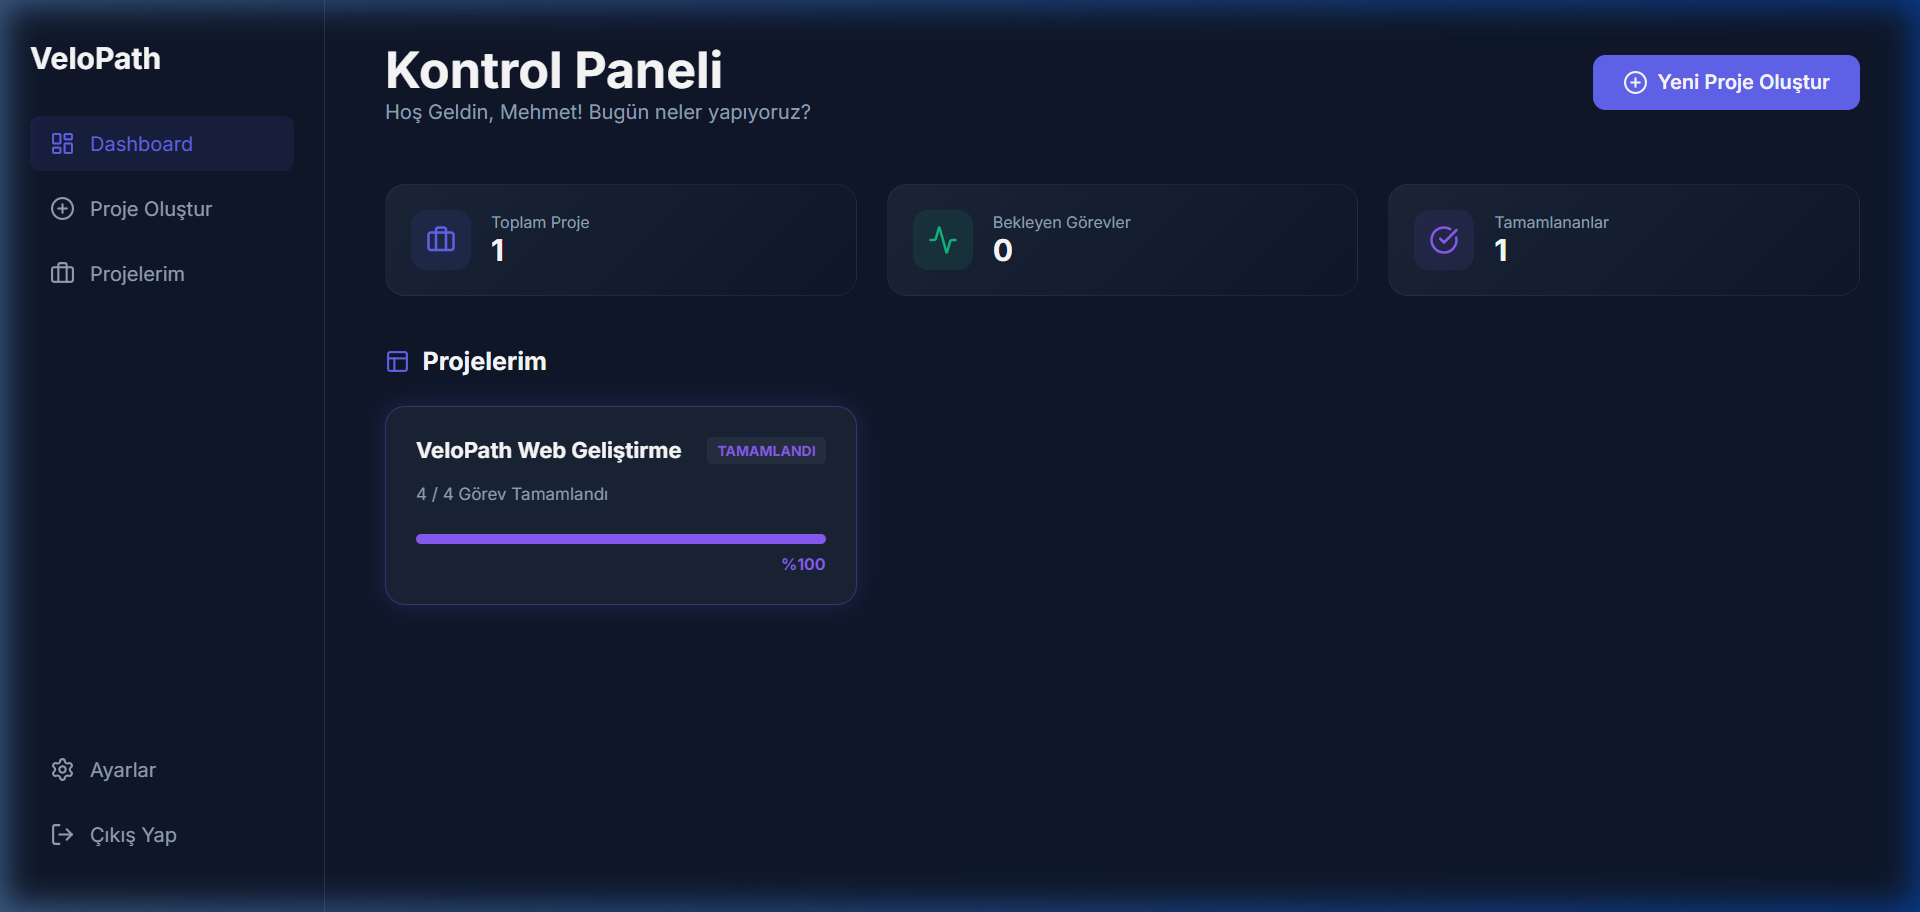
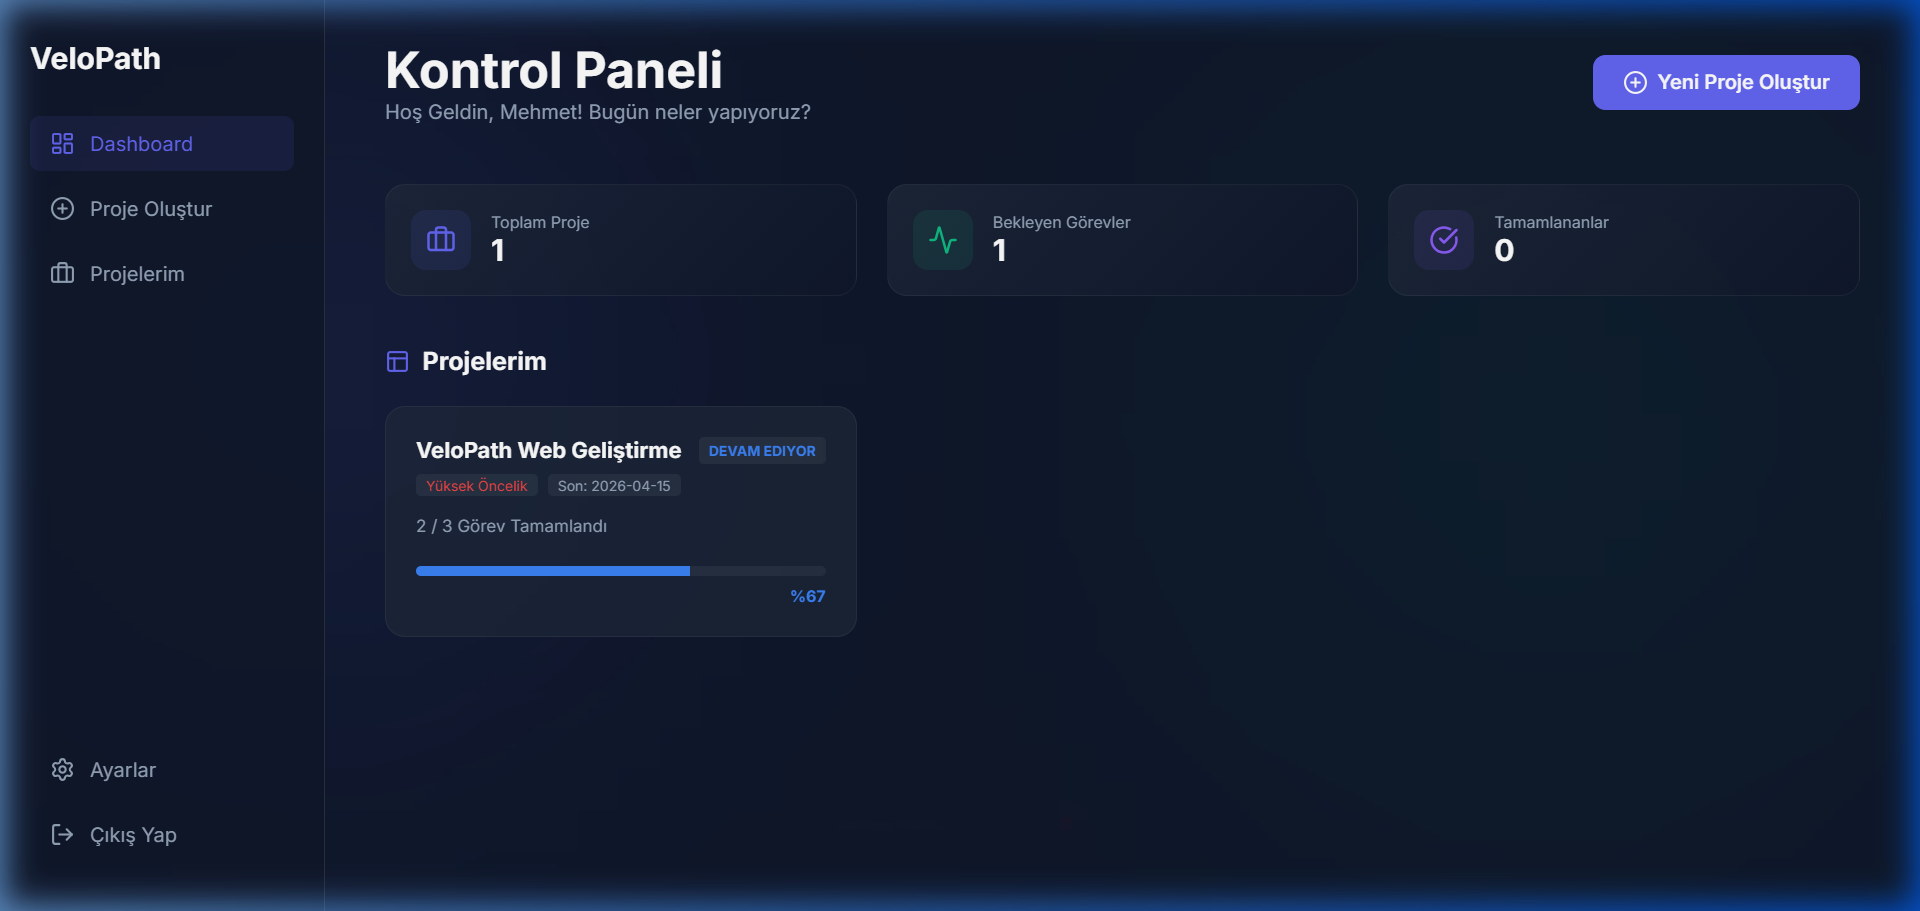
docs: README guncellendi (Next-Gen ozellikleri ve yeni Dashboard gorseli)

diff --git a/README.md b/README.md
@@ -6,16 +6,14 @@
 
 ## ✨ Özellikler
 
-VeloPath, modern bir kullanıcı deneyimi sunmak için tasarlanmıştır:
+VeloPath, en iyi modern kullanıcı deneyimini (UX) sunmak için "Next-Gen" (Linear / Vercel esintili) teknoloji tasarım trendleriyle inşa edilmiştir:
 
-- **📊 Dinamik Dashboard:** Tüm projelerinizin genel durumunu ve istatistiklerini (Toplam Proje, Bekleyen Görevler vb.) tek bir ekranda görün.
-- **🎨 Akıllı İlerleme Renkleri:** Proje ilerlemesine göre renk değiştiren progress bar'lar:
-  - 🟠 **%0 - %30:** Başlangıç
-  - 🔵 **%31 - %70:** İlerliyor
-  - 🟢 **%71 - %100:** Final Yakın / Tamamlandı (Glow Efekti)
-- **🌑 Premium Dark Mode:** Göz yormayan, "Glassmorphism" efektli modern ve profesyonel arayüz.
-- **📱 Responsive Navigasyon:** Sayfalar arası hızlı ve kolay geçiş sağlayan Sidebar menüsü.
-- **🛠 Görev Yönetimi:** Proje detaylarında anlık görev ekleme, silme ve tamamlama takibi.
+- 🚀 **Ultra-Modern Premium Arayüz:** Derin *Glassmorphism* (buzlu cam) paneller ve degrade (gradient) başlıklarla "State-of-the-Art" görünüm.
+- 🔮 **Aurora Ambient Arka Plan:** Uygulamaya derinlik ve "canlılık" hissi katan hareketli, otonom arka plan ışıkları.
+- 🎯 **Gelişmiş Proje Yönetimi:** Her projeye *Öncelik Seviyesi (Priority)*, *Teslim Tarihi (Deadline)* ve manuel *Durum (Status)* atayabilme imkanı.
+- 📊 **Dinamik Dashboard:** Projelerinizi ve istatistiklerinizi tek ekranda organize edebildiğiniz performans paneli.
+- 🎨 **Akıllı İlerleme Renkleri:** Görevlerin doluluk oranına göre renk değiştiren progress bar'lar ve %100 olduğunda beliren özel başarı *glow* efekti.
+- 💫 **Mikro Etkileşimler:** Sayfalar arası akıcı *Slide-Up/Fade-In* açılış animasyonları ve parıldayan bileşenlerdeki duyarlı *Haptic-Click* hissi.
 
 ---
 
